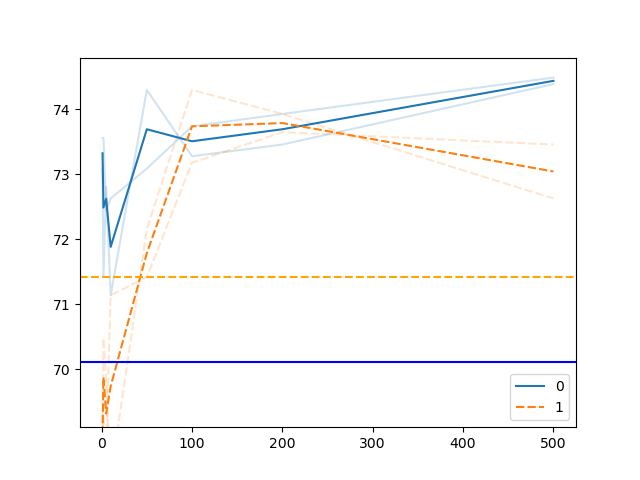
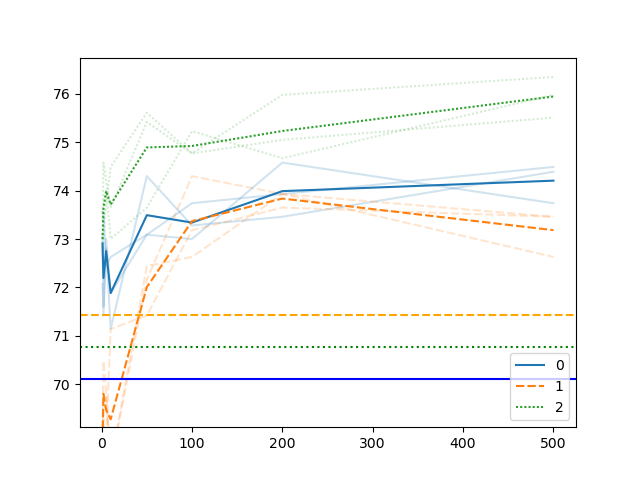
experiments done

diff --git a/experiments/second_order_stability_anal_FA/runner.py b/experiments/second_order_stability_anal_FA/runner.py
@@ -4,8 +4,9 @@ import os
 from copy import deepcopy
 import shutil
 
-N = 3
+N = 10
 M = 10
+CONFIG_NAME = '_config3.yml'
 
 def main(CHEAT_PATH = '../second_order_hiddendim_anal_FA/'):
 
@@ -14,8 +15,10 @@ def main(CHEAT_PATH = '../second_order_hiddendim_anal_FA/'):
         config = yaml.load(f, Loader=yaml.FullLoader)
     home = config['home']
 
-    for i in range(N):
-        os.system(f'cp {CHEAT_PATH}*_embeddings.pt {CHEAT_PATH}*_predicted_* .')
+    for i in range(9,10):
+        # os.system(f'cp {CHEAT_PATH}*_embeddings.pt {CHEAT_PATH}*_predicted_* .')
+
+        print(f"*** i = {i}")
 
         for data in ['train', 'validation', 'test']:
             config_idata = deepcopy(config)
@@ -36,10 +39,10 @@ def main(CHEAT_PATH = '../second_order_hiddendim_anal_FA/'):
             if os.path.exists('../../'+config_idata['target_path']):
                 continue
         
-            with open("_config.yml", 'w') as f:
+            with open(CONFIG_NAME, 'w') as f:
                 f.write(yaml.dump(config_idata))
 
-            command = f'cd ../../ && CUDA_VISIBLE_DEVICES={sys.argv[2]} python3 use_script.py {home}_config.yml'
+            command = f'cd ../../ && CUDA_VISIBLE_DEVICES={sys.argv[2]} python3 use_script.py {home}{CONFIG_NAME}'
             print("*****", command)
             x = os.system(command)
             if x:
@@ -49,29 +52,33 @@ def main(CHEAT_PATH = '../second_order_hiddendim_anal_FA/'):
 
         for j in range(M):
 
-            print(f"*** j = {j}")
+            print(f"*** i = {i}, j = {j}")
             config_ij = deepcopy(config)
             config_ij['test_output_path'] = config['test_output_path'].format(i, j)
             config_ij['best_model_path'] = config['best_model_path'].format(i, j)
             for data in ['train', 'validation', 'test']:
                 config_ij[data+'_data'] = config['target_path'].format(home, data, i)
 
-            with open("_config.yml", 'w') as f:
+            with open(CONFIG_NAME, 'w') as f:
                 f.write(yaml.dump(config_ij))
 
-            command = f'cd ../../ && CUDA_VISIBLE_DEVICES={sys.argv[2]} python3 train_script.py {home}_config.yml'
-            print("*****", command)
-            x = os.system(command)
-            if x:
-                print(x)
-                exit(x)
+            if not os.path.exists(config_ij['best_model_path']):
 
-            command = f'cd ../../ && CUDA_VISIBLE_DEVICES={sys.argv[2]} python3 test_script.py {home}_config.yml'
-            print("*****", command)
-            x = os.system(command)
-            if x:
-                print(x)
-                exit(x)
+                command = f'cd ../../ && CUDA_VISIBLE_DEVICES={sys.argv[2]} python3 train_script.py {home}{CONFIG_NAME}'
+                print("*****", command)
+                x = os.system(command)
+                if x:
+                    print(x)
+                    exit(x)
+
+            if not os.path.exists(config_ij['test_output_path']):
+            
+                command = f'cd ../../ && CUDA_VISIBLE_DEVICES={sys.argv[2]} python3 test_script.py {home}{CONFIG_NAME}'
+                print("*****", command)
+                x = os.system(command)
+                if x:
+                    print(x)
+                    exit(x)
 
 
 if __name__ == "__main__":

diff --git a/experiments/endue_shuffled/shuffler.py b/experiments/endue_shuffled/shuffler.py
@@ -1,0 +1,32 @@
+from random import shuffle
+import pickle
+
+DUE_TRAIN_PATH = '../due_trained_on_en_output_mullingbert/train.pkl'
+DUE_VAL_PATH = '../due_trained_on_en_output_mullingbert/val.pkl'
+DUE_VALTAG_PATH = '../../HRNNdata_due/val_tag.pkl'
+EN_TRAIN_PATH = '../../HRNNdata_en/train.pkl'
+EN_VAL_PATH = '../../HRNNdata_en/val.pkl'
+EN_VALTAG_PATH = '../../HRNNdata_en/val_tag.pkl'
+
+TARGET_TRAIN_PATH = './train.pkl'
+TARGET_VAL_PATH = './val.pkl'
+TARGET_VALTAG_PATH = './val_tag.pkl'
+
+due_train = pickle.load(open(DUE_TRAIN_PATH, 'rb'))
+en_train = pickle.load(open(EN_TRAIN_PATH, 'rb'))
+train = due_train+en_train
+shuffle(train)
+pickle.dump(train, open(TARGET_TRAIN_PATH, 'wb'))
+
+due_val = pickle.load(open(DUE_VAL_PATH, 'rb'))
+en_val = pickle.load(open(EN_VAL_PATH, 'rb'))
+due_val_tag = pickle.load(open(DUE_VALTAG_PATH, 'rb'))
+en_val_tag = pickle.load(open(EN_VALTAG_PATH, 'rb'))
+due_val = list(zip(due_val, due_val_tag))
+en_val = list(zip(en_val, en_val_tag))
+val = due_val+en_val
+shuffle(val)
+val, val_tag = zip(*val)
+val, val_tag = list(val), list(val_tag)
+pickle.dump(val, open(TARGET_VAL_PATH, 'wb'))
+pickle.dump(val_tag, open(TARGET_VALTAG_PATH, 'wb'))

diff --git a/experiments/second_order_stability_anal_FA/plotter.py b/experiments/second_order_stability_anal_FA/plotter.py
@@ -9,7 +9,7 @@ sys.path.insert(1, '../../')
 from library.HRNN import eval_conll2000
 from eval_heuristic import eval_hu
 
-N = 3
+N = 10
 M = 10
 
 def main():
